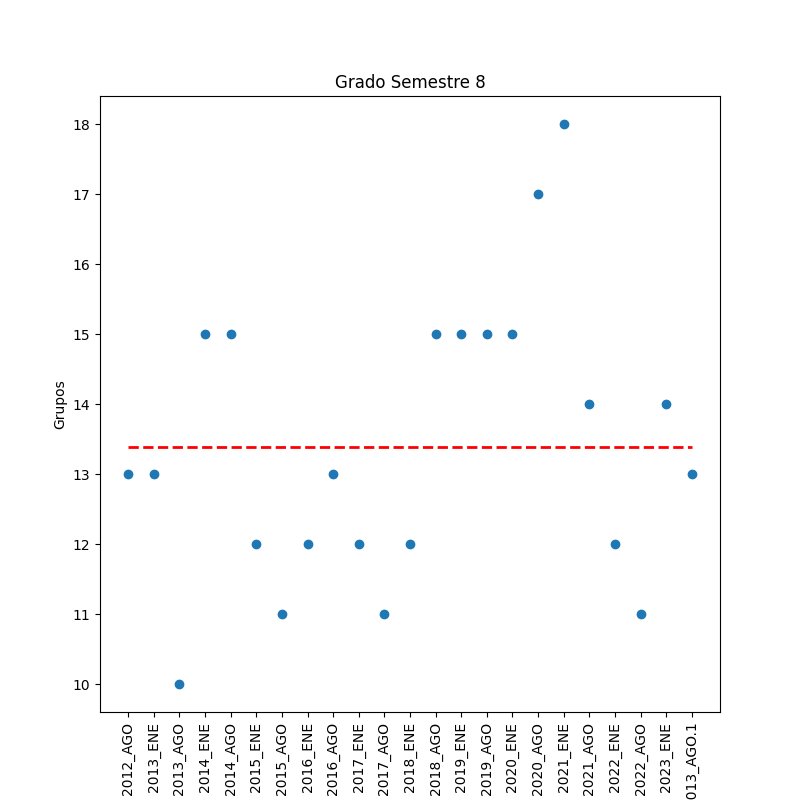
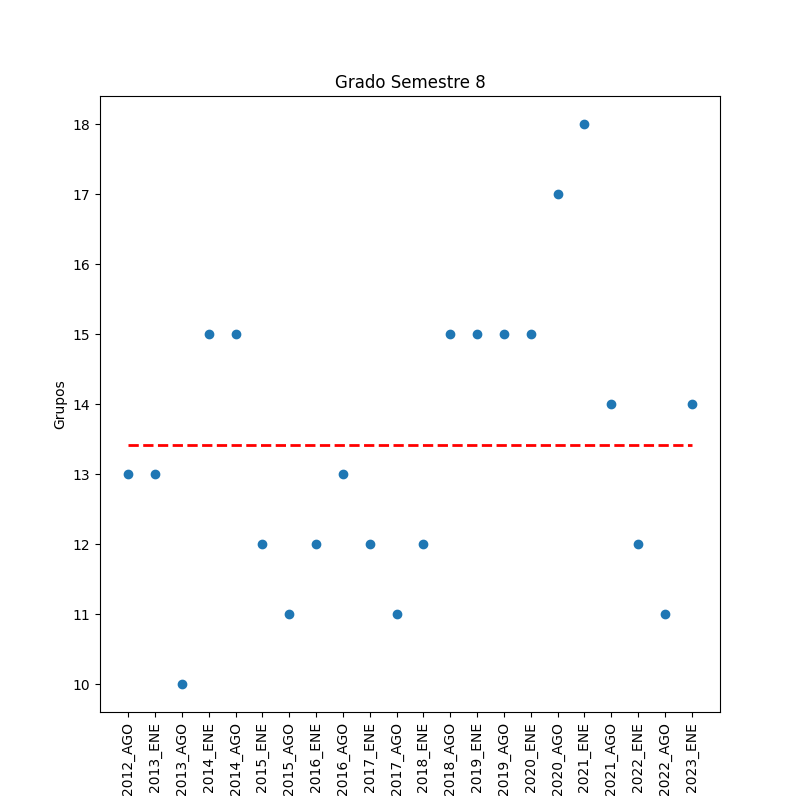
Remove last column function added

diff --git a/apiRest/functions.py b/apiRest/functions.py
@@ -6,6 +6,9 @@ import csv
 import os
 from tempfile import NamedTemporaryFile
 
+import glob
+
+
 #Funcion para agregar una columna al dataframe
 def addData(newPred):
 
@@ -50,19 +53,36 @@ def removeData():
         #         writer=csv.writer(fout)
         #         for row in csv.reader(fin):
         #             writer.writerow(row[:-1])       
-        with open('./recibidos/tableClaude.csv', 'r') as fin:
-            rows = list(csv.reader(fin))
 
+        # files = glob.glob('tmp*.csv') 
+        # for f in files:        
+        #     os.remove(f)       
+        
+
+        with open('./recibidos/formatted.csv', 'r') as fin:
+            rows = list(csv.reader(fin))
+            # Print Data file
+            #print("Archivo : ",rows)
+            #Validacion
+            
+
+
+        #Iteracion para remover la ultima fila
         for row in rows:
-            row.pop(-1)   
+            if row: #Validacion que ignora filas vacias 
+                print(f"Longitud fila: {len(row)}") 
+                print(f"Fila: {row}")
+                row.pop(-1)
+
 
         with NamedTemporaryFile(mode='w', delete=False) as tf:
-            writer = csv.writer(tf)
+            #writer = csv.writer(tf)
+            writer = csv.writer(tf, lineterminator='\n')#el lineterminator evita que agregue filas vacias no deseadas
             for row in rows:
                 writer.writerow(row)            
     
-        os.remove('./recibidos/tableClaude.csv')
-        os.rename(tf.name, './recibidos/tableClaude.csv')
+        os.remove('./recibidos/formatted.csv')
+        os.rename(tf.name, './recibidos/formatted.csv')
 
     except Exception as e:
         print("Error al intentar remover columna:", e)    
